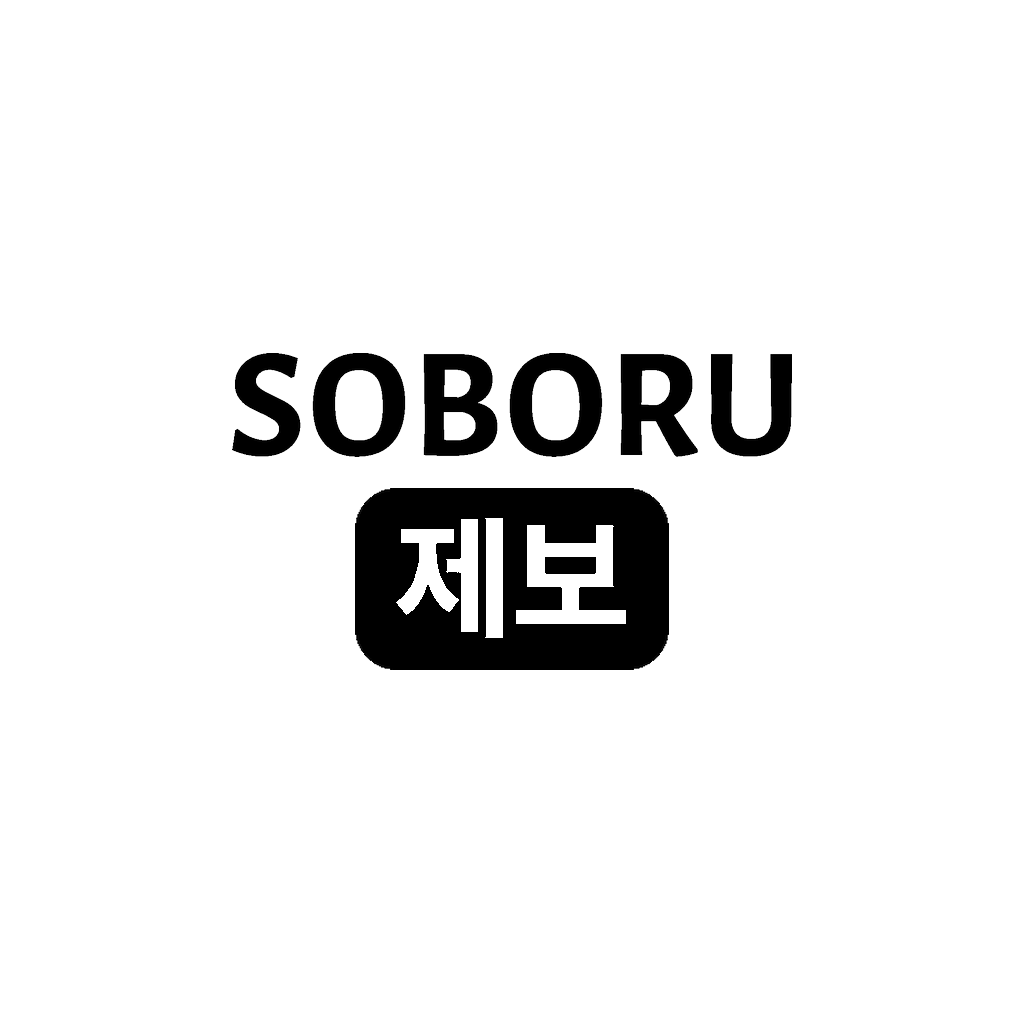
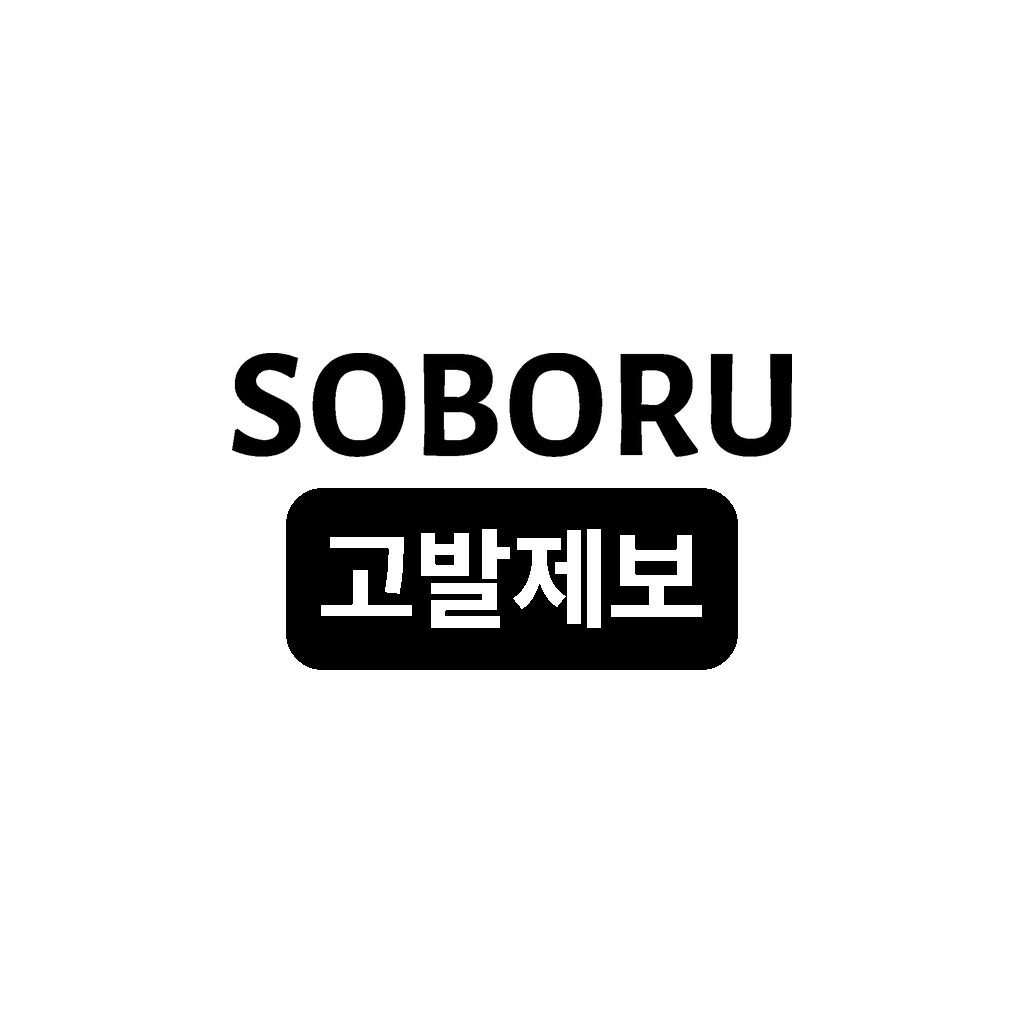
소보루제보 앱 → 소보루고발제보: 앱 이름, 아이콘(SOBORU + 귤색 고발제보), 1.2.0
Claude-Session: https://claude.ai/code/session_01SGfBdtXmX7h9qt8XW4iLQw

Changed region(s): [[0.2812, 0.4688, 0.7188, 0.6562]]

diff --git a/soboru-app/src/App.tsx b/soboru-app/src/App.tsx
@@ -1,4 +1,4 @@
-// 소보루제보 앱: 사이트(consumerjebo.co.kr, app.json extra.site)를 웹뷰로 띄우고, 아래 탭·푸시 알림·Apple 로그인·공유·오프라인 화면은 앱이 직접 맡는다.
+// 소보루고발제보 앱 (운영자 2026-11-09 이름 바꿈): 사이트(consumerjebo.co.kr, app.json extra.site)를 웹뷰로 띄우고, 아래 탭·푸시 알림·Apple 로그인·공유·오프라인 화면은 앱이 직접 맡는다.
 // 사이트와는 templates/app_bridge.html의 window.SoboruApp으로 주고받는다.
 import * as AppleAuthentication from 'expo-apple-authentication';
 import Constants from 'expo-constants';

diff --git a/soboru-app/src/TabBar.tsx b/soboru-app/src/TabBar.tsx
@@ -1,4 +1,4 @@
-// 아래 탭: 홈·제보 목록·제보하기·알림·내 제보 (소보루제보 앱). 앱 안에서는 사이트가 자기 탭바를 숨김 (templates/base.html)
+// 아래 탭: 홈·제보 목록·제보하기·알림·내 제보 (소보루고발제보 앱). 앱 안에서는 사이트가 자기 탭바를 숨김 (templates/base.html)
 import * as Haptics from 'expo-haptics';
 import { Pressable, StyleSheet, Text, View } from 'react-native';
 import { useSafeAreaInsets } from 'react-native-safe-area-context';
